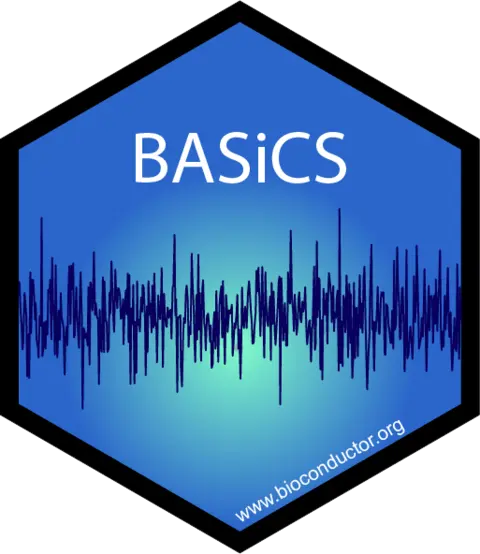
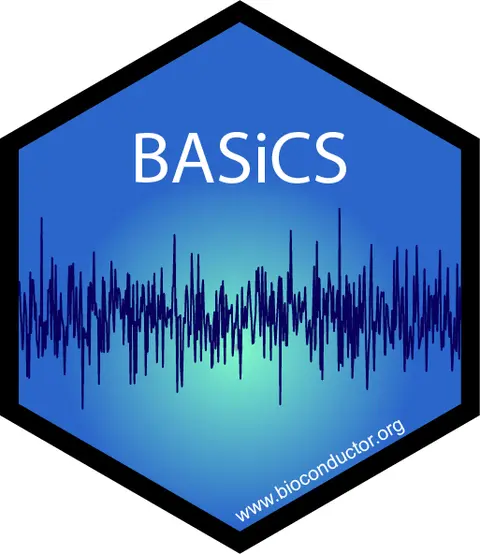
Use optimised images where possible

Changed region(s): [[0.4688, 0.9819, 0.5312, 1.0], [0.7188, 0.7978, 0.75, 0.8285]]

diff --git a/software/index.html b/software/index.html
@@ -4,6 +4,8 @@
   <!-- Head -->
   <head>    <!-- Metadata, OpenGraph and Schema.org -->
     
+    <!-- Website verification -->
+    <meta name="google-site-verification" content="Pzl8S4P089Cj4nMfGPL5Ov-HQIwZyQJmFI9OaJlkQdQ" />
 
     <!-- Standard metadata -->
     <meta charset="utf-8">
@@ -14,6 +16,8 @@
     <meta name="description" content="Research software we have produced" />
     <meta name="keywords" content="jekyll, jekyll-theme, academic-website, portfolio-website" />
 
+
+    <meta name="google-site-verification" content="Pzl8S4P089Cj4nMfGPL5Ov-HQIwZyQJmFI9OaJlkQdQ" />
 
     <!-- Bootstrap & MDB -->
     <link href="https://cdn.jsdelivr.net/npm/bootstrap@4.6.1/dist/css/bootstrap.min.css" rel="stylesheet" integrity="sha256-DF7Zhf293AJxJNTmh5zhoYYIMs2oXitRfBjY+9L//AY=" crossorigin="anonymous">
@@ -54,7 +58,7 @@
       <!-- Nav Bar -->
       <nav id="navbar" class=" navbar font-sans font-weight-lighter bg-opacity-30 bg-slate-900 backdrop-filter border-b-2 border-gray-400 border-transparent backdrop-blur-sm navbar-expand-sm fixed-top">
         <div class="container">
-          <a class="navbar-brand title font-weight-lighter" href="https://vallejosgroup.github.io/"><img src="/assets/img/logo-800.webp" height="56" width="100"></a>
+          <a class="navbar-brand title font-weight-lighter" href="https://vallejosgroup.github.io/"><img src="/assets/img/logo-480.webp" height="56" width="100"></a>
           <!-- Navbar Toggle -->
           <button class="navbar-toggler collapsed ml-auto" type="button" data-toggle="collapse" data-target="#navbarNav" aria-controls="navbarNav" aria-expanded="false" aria-label="Toggle navigation">
             <span class="sr-only">Toggle navigation</span>
@@ -123,12 +127,12 @@
           
   <h2 class="category">GitHub</h2>
   <!-- Generate cards for each project -->
-  <figure class="md:flex bg-slate-100 rounded-xl p-8 md:p-0 dark:bg-slate-800 my-8 drop-shadow-2xl" style="background-color: var(--global-member-bg);"><a class="w-20 h-25 md:w-60 md:h-auto  mx-auto self-center" href="https://github.com/andreaskapou/scMET" target="_blank" rel="noopener noreferrer"> <img class="w-20 h-20 md:w-60 md:h-auto rounded-xl  mx-auto" src="../assets/img/scmet.png" alt="" width="512" height="512"> </a><div class="pt-6 md:p-8 flex-wrap text-center md:text-left space-y-4">
+  <figure class="md:flex bg-slate-100 rounded-xl p-8 md:p-0 dark:bg-slate-800 my-8 drop-shadow-2xl" style="background-color: var(--global-member-bg);"><a class="w-20 h-25 md:w-60 md:h-auto  mx-auto self-center" href="https://github.com/andreaskapou/scMET" target="_blank" rel="noopener noreferrer"> <img class="w-20 h-20 md:w-60 md:h-auto rounded-xl  mx-auto" src="../assets/img/scmet-800.webp" alt="" width="512" height="512"> </a><div class="pt-6 md:p-8 flex-wrap text-center md:text-left space-y-4">
     <h2 class="text-2xl grow font-bold"> scMET </h2> 
     <p class=" font-light"> A Bayesian framework for the analysis of single cell DNA methylation data. This modelling approach combines a hierarchical beta-binomial specification with a generalised linear model framework with the aim of capturing biological overdispersion and overcome data sparsity by sharing information across cells and genomic features. </p>
   </div>
 </figure>
-          <figure class="md:flex bg-slate-100 rounded-xl p-8 md:p-0 dark:bg-slate-800 my-8 drop-shadow-2xl" style="background-color: var(--global-member-bg);"><a class="w-20 h-25 md:w-60 md:h-auto  mx-auto self-center" href="https://github.com/nathansam/bassline" target="_blank" rel="noopener noreferrer"> <img class="w-20 h-20 md:w-60 md:h-auto rounded-xl  mx-auto" src="../assets/img/bassline.png" alt="" width="512" height="512"> </a><div class="pt-6 md:p-8 flex-wrap text-center md:text-left space-y-4">
+          <figure class="md:flex bg-slate-100 rounded-xl p-8 md:p-0 dark:bg-slate-800 my-8 drop-shadow-2xl" style="background-color: var(--global-member-bg);"><a class="w-20 h-25 md:w-60 md:h-auto  mx-auto self-center" href="https://github.com/nathansam/bassline" target="_blank" rel="noopener noreferrer"> <img class="w-20 h-20 md:w-60 md:h-auto rounded-xl  mx-auto" src="../assets/img/bassline-800.webp" alt="" width="512" height="512"> </a><div class="pt-6 md:p-8 flex-wrap text-center md:text-left space-y-4">
     <h2 class="text-2xl grow font-bold"> BASSLINE </h2> 
     <p class=" font-light"> Mixtures of life distributions provide a convenient framework for survival analysis: particularly when standard models such as the Weibull or the log-normal are unable to capture some features from the data. These mixtures can also account for unobserved heterogeneity or outlying observations. BASSLINE (BAyeSian Survival anaLysIs usiNg shapE mixtures of log-normal distributions) uses shape mixtures of log-normal distributions to fit data with fat tails and has been adapted from code written by Vallejos &amp; Steel. Some of the functions have been rewritten in C++ for increased performance. </p>
   </div>

diff --git a/publications/index.html b/publications/index.html
@@ -4,6 +4,8 @@
   <!-- Head -->
   <head>    <!-- Metadata, OpenGraph and Schema.org -->
     
+    <!-- Website verification -->
+    <meta name="google-site-verification" content="Pzl8S4P089Cj4nMfGPL5Ov-HQIwZyQJmFI9OaJlkQdQ" />
 
     <!-- Standard metadata -->
     <meta charset="utf-8">
@@ -15,6 +17,8 @@
 " />
     <meta name="keywords" content="jekyll, jekyll-theme, academic-website, portfolio-website" />
 
+
+    <meta name="google-site-verification" content="Pzl8S4P089Cj4nMfGPL5Ov-HQIwZyQJmFI9OaJlkQdQ" />
 
     <!-- Bootstrap & MDB -->
     <link href="https://cdn.jsdelivr.net/npm/bootstrap@4.6.1/dist/css/bootstrap.min.css" rel="stylesheet" integrity="sha256-DF7Zhf293AJxJNTmh5zhoYYIMs2oXitRfBjY+9L//AY=" crossorigin="anonymous">
@@ -55,7 +59,7 @@
       <!-- Nav Bar -->
       <nav id="navbar" class=" navbar font-sans font-weight-lighter bg-opacity-30 bg-slate-900 backdrop-filter border-b-2 border-gray-400 border-transparent backdrop-blur-sm navbar-expand-sm fixed-top">
         <div class="container">
-          <a class="navbar-brand title font-weight-lighter" href="https://vallejosgroup.github.io/"><img src="/assets/img/logo-800.webp" height="56" width="100"></a>
+          <a class="navbar-brand title font-weight-lighter" href="https://vallejosgroup.github.io/"><img src="/assets/img/logo-480.webp" height="56" width="100"></a>
           <!-- Navbar Toggle -->
           <button class="navbar-toggler collapsed ml-auto" type="button" data-toggle="collapse" data-target="#navbarNav" aria-controls="navbarNav" aria-expanded="false" aria-label="Toggle navigation">
             <span class="sr-only">Toggle navigation</span>
@@ -670,7 +674,8 @@ The British Heart Foundation.</p>
           <div class="title">Normalizing single-cell RNA sequencing data: challenges and opportunities</div>
           <!-- Author -->
           <div class="author">
-                  <em>Vallejos, Catalina A</em>, Risso, Davide, Scialdone, Antonio, Dudoit, Sandrine, and Marioni, John C
+                  <em>Vallejos, Catalina A</em>, Risso, Davide, Scialdone, Antonio, Dudoit, Sandrine, and <a href="https://www.ebi.ac.uk/research-beta/marioni/" target="_blank" rel="noopener noreferrer">Marioni, John C</a>
+                  
           </div>
 
           <!-- Journal/Book title and date -->

diff --git a/projects/1_project/index.html b/projects/1_project/index.html
@@ -4,6 +4,8 @@
   <!-- Head -->
   <head>    <!-- Metadata, OpenGraph and Schema.org -->
     
+    <!-- Website verification -->
+    <meta name="google-site-verification" content="Pzl8S4P089Cj4nMfGPL5Ov-HQIwZyQJmFI9OaJlkQdQ" />
 
     <!-- Standard metadata -->
     <meta charset="utf-8">
@@ -14,6 +16,8 @@
     <meta name="description" content="BASiCS (Bayesian Analysis of Single-Cell Sequencing data) is an integrated Bayesian hierarchical model to perform statistical analyses of single-cell RNA sequencing datasets in the context of supervised experiments (where the groups of cells of interest are known a priori, e.g. experimental conditions or cell types). BASiCS performs built-in data normalisation (global scaling) and technical noise quantification. BASiCS also provides probabilistic frameworks for (i) highly (or lowly) variable genes within a single group of cells and (ii) differential expression analyses (mean and variability) between groups of cells." />
     <meta name="keywords" content="jekyll, jekyll-theme, academic-website, portfolio-website" />
 
+
+    <meta name="google-site-verification" content="Pzl8S4P089Cj4nMfGPL5Ov-HQIwZyQJmFI9OaJlkQdQ" />
 
     <!-- Bootstrap & MDB -->
     <link href="https://cdn.jsdelivr.net/npm/bootstrap@4.6.1/dist/css/bootstrap.min.css" rel="stylesheet" integrity="sha256-DF7Zhf293AJxJNTmh5zhoYYIMs2oXitRfBjY+9L//AY=" crossorigin="anonymous">
@@ -54,7 +58,7 @@
       <!-- Nav Bar -->
       <nav id="navbar" class=" navbar font-sans font-weight-lighter bg-opacity-30 bg-slate-900 backdrop-filter border-b-2 border-gray-400 border-transparent backdrop-blur-sm navbar-expand-sm fixed-top">
         <div class="container">
-          <a class="navbar-brand title font-weight-lighter" href="https://vallejosgroup.github.io/"><img src="/assets/img/logo-800.webp" height="56" width="100"></a>
+          <a class="navbar-brand title font-weight-lighter" href="https://vallejosgroup.github.io/"><img src="/assets/img/logo-480.webp" height="56" width="100"></a>
           <!-- Navbar Toggle -->
           <button class="navbar-toggler collapsed ml-auto" type="button" data-toggle="collapse" data-target="#navbarNav" aria-controls="navbarNav" aria-expanded="false" aria-label="Toggle navigation">
             <span class="sr-only">Toggle navigation</span>

diff --git a/projects/2_project/index.html b/projects/2_project/index.html
@@ -4,6 +4,8 @@
   <!-- Head -->
   <head>    <!-- Metadata, OpenGraph and Schema.org -->
     
+    <!-- Website verification -->
+    <meta name="google-site-verification" content="Pzl8S4P089Cj4nMfGPL5Ov-HQIwZyQJmFI9OaJlkQdQ" />
 
     <!-- Standard metadata -->
     <meta charset="utf-8">
@@ -14,6 +16,8 @@
     <meta name="description" content="Mixtures of life distributions provide a convenient framework for survival analysis: particularly when standard models such as the Weibull or the log-normal are unable to capture some features from the data. These mixtures can also account for unobserved heterogeneity or outlying observations. BASSLINE (BAyeSian Survival anaLysIs usiNg shapE mixtures of log-normal distributions) uses shape mixtures of log-normal distributions to fit data with fat tails and has been adapted from code written by Vallejos & Steel. Some of the functions have been rewritten in C++ for increased performance." />
     <meta name="keywords" content="jekyll, jekyll-theme, academic-website, portfolio-website" />
 
+
+    <meta name="google-site-verification" content="Pzl8S4P089Cj4nMfGPL5Ov-HQIwZyQJmFI9OaJlkQdQ" />
 
     <!-- Bootstrap & MDB -->
     <link href="https://cdn.jsdelivr.net/npm/bootstrap@4.6.1/dist/css/bootstrap.min.css" rel="stylesheet" integrity="sha256-DF7Zhf293AJxJNTmh5zhoYYIMs2oXitRfBjY+9L//AY=" crossorigin="anonymous">
@@ -54,7 +58,7 @@
       <!-- Nav Bar -->
       <nav id="navbar" class=" navbar font-sans font-weight-lighter bg-opacity-30 bg-slate-900 backdrop-filter border-b-2 border-gray-400 border-transparent backdrop-blur-sm navbar-expand-sm fixed-top">
         <div class="container">
-          <a class="navbar-brand title font-weight-lighter" href="https://vallejosgroup.github.io/"><img src="/assets/img/logo-800.webp" height="56" width="100"></a>
+          <a class="navbar-brand title font-weight-lighter" href="https://vallejosgroup.github.io/"><img src="/assets/img/logo-480.webp" height="56" width="100"></a>
           <!-- Navbar Toggle -->
           <button class="navbar-toggler collapsed ml-auto" type="button" data-toggle="collapse" data-target="#navbarNav" aria-controls="navbarNav" aria-expanded="false" aria-label="Toggle navigation">
             <span class="sr-only">Toggle navigation</span>

diff --git a/projects/3_project/index.html b/projects/3_project/index.html
@@ -4,6 +4,8 @@
   <!-- Head -->
   <head>    <!-- Metadata, OpenGraph and Schema.org -->
     
+    <!-- Website verification -->
+    <meta name="google-site-verification" content="Pzl8S4P089Cj4nMfGPL5Ov-HQIwZyQJmFI9OaJlkQdQ" />
 
     <!-- Standard metadata -->
     <meta charset="utf-8">
@@ -14,6 +16,8 @@
     <meta name="description" content="A Bayesian framework for the analysis of single cell DNA methylation data. This modelling approach combines a hierarchical beta-binomial specification with a generalised linear model framework with the aim of capturing biological overdispersion and overcome data sparsity by sharing information across cells and genomic features." />
     <meta name="keywords" content="jekyll, jekyll-theme, academic-website, portfolio-website" />
 
+
+    <meta name="google-site-verification" content="Pzl8S4P089Cj4nMfGPL5Ov-HQIwZyQJmFI9OaJlkQdQ" />
 
     <!-- Bootstrap & MDB -->
     <link href="https://cdn.jsdelivr.net/npm/bootstrap@4.6.1/dist/css/bootstrap.min.css" rel="stylesheet" integrity="sha256-DF7Zhf293AJxJNTmh5zhoYYIMs2oXitRfBjY+9L//AY=" crossorigin="anonymous">
@@ -54,7 +58,7 @@
       <!-- Nav Bar -->
       <nav id="navbar" class=" navbar font-sans font-weight-lighter bg-opacity-30 bg-slate-900 backdrop-filter border-b-2 border-gray-400 border-transparent backdrop-blur-sm navbar-expand-sm fixed-top">
         <div class="container">
-          <a class="navbar-brand title font-weight-lighter" href="https://vallejosgroup.github.io/"><img src="/assets/img/logo-800.webp" height="56" width="100"></a>
+          <a class="navbar-brand title font-weight-lighter" href="https://vallejosgroup.github.io/"><img src="/assets/img/logo-480.webp" height="56" width="100"></a>
           <!-- Navbar Toggle -->
           <button class="navbar-toggler collapsed ml-auto" type="button" data-toggle="collapse" data-target="#navbarNav" aria-controls="navbarNav" aria-expanded="false" aria-label="Toggle navigation">
             <span class="sr-only">Toggle navigation</span>

diff --git a/contact/index.html b/contact/index.html
@@ -4,6 +4,8 @@
   <!-- Head -->
   <head>    <!-- Metadata, OpenGraph and Schema.org -->
     
+    <!-- Website verification -->
+    <meta name="google-site-verification" content="Pzl8S4P089Cj4nMfGPL5Ov-HQIwZyQJmFI9OaJlkQdQ" />
 
     <!-- Standard metadata -->
     <meta charset="utf-8">
@@ -14,6 +16,8 @@
     <meta name="description" content="Do you want to work at the interface between Bayes and exciting biomedical problems? We are often looking for motivated students and postdocs that want to join our group. If you want to discuss potential opportunities, contact us!" />
     <meta name="keywords" content="jekyll, jekyll-theme, academic-website, portfolio-website" />
 
+
+    <meta name="google-site-verification" content="Pzl8S4P089Cj4nMfGPL5Ov-HQIwZyQJmFI9OaJlkQdQ" />
 
     <!-- Bootstrap & MDB -->
     <link href="https://cdn.jsdelivr.net/npm/bootstrap@4.6.1/dist/css/bootstrap.min.css" rel="stylesheet" integrity="sha256-DF7Zhf293AJxJNTmh5zhoYYIMs2oXitRfBjY+9L//AY=" crossorigin="anonymous">
@@ -54,7 +58,7 @@
       <!-- Nav Bar -->
       <nav id="navbar" class=" navbar font-sans font-weight-lighter bg-opacity-30 bg-slate-900 backdrop-filter border-b-2 border-gray-400 border-transparent backdrop-blur-sm navbar-expand-sm fixed-top">
         <div class="container">
-          <a class="navbar-brand title font-weight-lighter" href="https://vallejosgroup.github.io/"><img src="/assets/img/logo-800.webp" height="56" width="100"></a>
+          <a class="navbar-brand title font-weight-lighter" href="https://vallejosgroup.github.io/"><img src="/assets/img/logo-480.webp" height="56" width="100"></a>
           <!-- Navbar Toggle -->
           <button class="navbar-toggler collapsed ml-auto" type="button" data-toggle="collapse" data-target="#navbarNav" aria-controls="navbarNav" aria-expanded="false" aria-label="Toggle navigation">
             <span class="sr-only">Toggle navigation</span>

diff --git a/404.html b/404.html
@@ -4,6 +4,8 @@
   <!-- Head -->
   <head><meta http-equiv="refresh" content="3; url=https://vallejosgroup.github.io/" />    <!-- Metadata, OpenGraph and Schema.org -->
     
+    <!-- Website verification -->
+    <meta name="google-site-verification" content="Pzl8S4P089Cj4nMfGPL5Ov-HQIwZyQJmFI9OaJlkQdQ" />
 
     <!-- Standard metadata -->
     <meta charset="utf-8">
@@ -14,6 +16,8 @@
     <meta name="description" content="Looks like there has been a mistake. Nothing exists here." />
     <meta name="keywords" content="jekyll, jekyll-theme, academic-website, portfolio-website" />
 
+
+    <meta name="google-site-verification" content="Pzl8S4P089Cj4nMfGPL5Ov-HQIwZyQJmFI9OaJlkQdQ" />
 
     <!-- Bootstrap & MDB -->
     <link href="https://cdn.jsdelivr.net/npm/bootstrap@4.6.1/dist/css/bootstrap.min.css" rel="stylesheet" integrity="sha256-DF7Zhf293AJxJNTmh5zhoYYIMs2oXitRfBjY+9L//AY=" crossorigin="anonymous">
@@ -54,7 +58,7 @@
       <!-- Nav Bar -->
       <nav id="navbar" class=" navbar font-sans font-weight-lighter bg-opacity-30 bg-slate-900 backdrop-filter border-b-2 border-gray-400 border-transparent backdrop-blur-sm navbar-expand-sm fixed-top">
         <div class="container">
-          <a class="navbar-brand title font-weight-lighter" href="https://vallejosgroup.github.io/"><img src="/assets/img/logo-800.webp" height="56" width="100"></a>
+          <a class="navbar-brand title font-weight-lighter" href="https://vallejosgroup.github.io/"><img src="/assets/img/logo-480.webp" height="56" width="100"></a>
           <!-- Navbar Toggle -->
           <button class="navbar-toggler collapsed ml-auto" type="button" data-toggle="collapse" data-target="#navbarNav" aria-controls="navbarNav" aria-expanded="false" aria-label="Toggle navigation">
             <span class="sr-only">Toggle navigation</span>

diff --git a/blog/2021/redirect/index.html b/blog/2021/redirect/index.html
@@ -4,6 +4,8 @@
   <!-- Head -->
   <head><meta http-equiv="refresh" content="3; url=https://vallejosgroup.github.io/" />    <!-- Metadata, OpenGraph and Schema.org -->
     
+    <!-- Website verification -->
+    <meta name="google-site-verification" content="Pzl8S4P089Cj4nMfGPL5Ov-HQIwZyQJmFI9OaJlkQdQ" />
 
     <!-- Standard metadata -->
     <meta charset="utf-8">
@@ -14,6 +16,8 @@
     <meta name="description" content="you can also redirect to assets like pdf" />
     <meta name="keywords" content="jekyll, jekyll-theme, academic-website, portfolio-website" />
 
+
+    <meta name="google-site-verification" content="Pzl8S4P089Cj4nMfGPL5Ov-HQIwZyQJmFI9OaJlkQdQ" />
 
     <!-- Bootstrap & MDB -->
     <link href="https://cdn.jsdelivr.net/npm/bootstrap@4.6.1/dist/css/bootstrap.min.css" rel="stylesheet" integrity="sha256-DF7Zhf293AJxJNTmh5zhoYYIMs2oXitRfBjY+9L//AY=" crossorigin="anonymous">
@@ -54,7 +58,7 @@
       <!-- Nav Bar -->
       <nav id="navbar" class=" navbar font-sans font-weight-lighter bg-opacity-30 bg-slate-900 backdrop-filter border-b-2 border-gray-400 border-transparent backdrop-blur-sm navbar-expand-sm fixed-top">
         <div class="container">
-          <a class="navbar-brand title font-weight-lighter" href="https://vallejosgroup.github.io/"><img src="/assets/img/logo-800.webp" height="56" width="100"></a>
+          <a class="navbar-brand title font-weight-lighter" href="https://vallejosgroup.github.io/"><img src="/assets/img/logo-480.webp" height="56" width="100"></a>
           <!-- Navbar Toggle -->
           <button class="navbar-toggler collapsed ml-auto" type="button" data-toggle="collapse" data-target="#navbarNav" aria-controls="navbarNav" aria-expanded="false" aria-label="Toggle navigation">
             <span class="sr-only">Toggle navigation</span>

diff --git a/blog/2021/distill/index.html b/blog/2021/distill/index.html
@@ -3,6 +3,8 @@
 <html>
   <head>    <!-- Metadata, OpenGraph and Schema.org -->
     
+    <!-- Website verification -->
+    <meta name="google-site-verification" content="Pzl8S4P089Cj4nMfGPL5Ov-HQIwZyQJmFI9OaJlkQdQ" />
 
     <!-- Standard metadata -->
     <meta charset="utf-8">
@@ -13,6 +15,8 @@
     <meta name="description" content="an example of a distill-style blog post and main elements" />
     <meta name="keywords" content="jekyll, jekyll-theme, academic-website, portfolio-website" />
 
+
+    <meta name="google-site-verification" content="Pzl8S4P089Cj4nMfGPL5Ov-HQIwZyQJmFI9OaJlkQdQ" />
 
     <!-- Bootstrap & MDB -->
     <link href="https://cdn.jsdelivr.net/npm/bootstrap@4.6.1/dist/css/bootstrap.min.css" rel="stylesheet" integrity="sha256-DF7Zhf293AJxJNTmh5zhoYYIMs2oXitRfBjY+9L//AY=" crossorigin="anonymous">
@@ -138,7 +142,7 @@
       <!-- Nav Bar -->
       <nav id="navbar" class=" navbar font-sans font-weight-lighter bg-opacity-30 bg-slate-900 backdrop-filter border-b-2 border-gray-400 border-transparent backdrop-blur-sm navbar-expand-sm fixed-top">
         <div class="container">
-          <a class="navbar-brand title font-weight-lighter" href="https://vallejosgroup.github.io/"><img src="/assets/img/logo-800.webp" height="56" width="100"></a>
+          <a class="navbar-brand title font-weight-lighter" href="https://vallejosgroup.github.io/"><img src="/assets/img/logo-480.webp" height="56" width="100"></a>
           <!-- Navbar Toggle -->
           <button class="navbar-toggler collapsed ml-auto" type="button" data-toggle="collapse" data-target="#navbarNav" aria-controls="navbarNav" aria-expanded="false" aria-label="Toggle navigation">
             <span class="sr-only">Toggle navigation</span>

diff --git a/blog/2020/github-metadata/index.html b/blog/2020/github-metadata/index.html
@@ -4,6 +4,8 @@
   <!-- Head -->
   <head>    <!-- Metadata, OpenGraph and Schema.org -->
     
+    <!-- Website verification -->
+    <meta name="google-site-verification" content="Pzl8S4P089Cj4nMfGPL5Ov-HQIwZyQJmFI9OaJlkQdQ" />
 
     <!-- Standard metadata -->
     <meta charset="utf-8">
@@ -14,6 +16,8 @@
     <meta name="description" content="a quick run down on accessing github metadata." />
     <meta name="keywords" content="jekyll, jekyll-theme, academic-website, portfolio-website" />
 
+
+    <meta name="google-site-verification" content="Pzl8S4P089Cj4nMfGPL5Ov-HQIwZyQJmFI9OaJlkQdQ" />
 
     <!-- Bootstrap & MDB -->
     <link href="https://cdn.jsdelivr.net/npm/bootstrap@4.6.1/dist/css/bootstrap.min.css" rel="stylesheet" integrity="sha256-DF7Zhf293AJxJNTmh5zhoYYIMs2oXitRfBjY+9L//AY=" crossorigin="anonymous">
@@ -54,7 +58,7 @@
       <!-- Nav Bar -->
       <nav id="navbar" class=" navbar font-sans font-weight-lighter bg-opacity-30 bg-slate-900 backdrop-filter border-b-2 border-gray-400 border-transparent backdrop-blur-sm navbar-expand-sm fixed-top">
         <div class="container">
-          <a class="navbar-brand title font-weight-lighter" href="https://vallejosgroup.github.io/"><img src="/assets/img/logo-800.webp" height="56" width="100"></a>
+          <a class="navbar-brand title font-weight-lighter" href="https://vallejosgroup.github.io/"><img src="/assets/img/logo-480.webp" height="56" width="100"></a>
           <!-- Navbar Toggle -->
           <button class="navbar-toggler collapsed ml-auto" type="button" data-toggle="collapse" data-target="#navbarNav" aria-controls="navbarNav" aria-expanded="false" aria-label="Toggle navigation">
             <span class="sr-only">Toggle navigation</span>

diff --git a/blog/2015/images/index.html b/blog/2015/images/index.html
@@ -4,6 +4,8 @@
   <!-- Head -->
   <head>    <!-- Metadata, OpenGraph and Schema.org -->
     
+    <!-- Website verification -->
+    <meta name="google-site-verification" content="Pzl8S4P089Cj4nMfGPL5Ov-HQIwZyQJmFI9OaJlkQdQ" />
 
     <!-- Standard metadata -->
     <meta charset="utf-8">
@@ -14,6 +16,8 @@
     <meta name="description" content="this is what included images could look like" />
     <meta name="keywords" content="jekyll, jekyll-theme, academic-website, portfolio-website" />
 
+
+    <meta name="google-site-verification" content="Pzl8S4P089Cj4nMfGPL5Ov-HQIwZyQJmFI9OaJlkQdQ" />
 
     <!-- Bootstrap & MDB -->
     <link href="https://cdn.jsdelivr.net/npm/bootstrap@4.6.1/dist/css/bootstrap.min.css" rel="stylesheet" integrity="sha256-DF7Zhf293AJxJNTmh5zhoYYIMs2oXitRfBjY+9L//AY=" crossorigin="anonymous">
@@ -54,7 +58,7 @@
       <!-- Nav Bar -->
       <nav id="navbar" class=" navbar font-sans font-weight-lighter bg-opacity-30 bg-slate-900 backdrop-filter border-b-2 border-gray-400 border-transparent backdrop-blur-sm navbar-expand-sm fixed-top">
         <div class="container">
-          <a class="navbar-brand title font-weight-lighter" href="https://vallejosgroup.github.io/"><img src="/assets/img/logo-800.webp" height="56" width="100"></a>
+          <a class="navbar-brand title font-weight-lighter" href="https://vallejosgroup.github.io/"><img src="/assets/img/logo-480.webp" height="56" width="100"></a>
           <!-- Navbar Toggle -->
           <button class="navbar-toggler collapsed ml-auto" type="button" data-toggle="collapse" data-target="#navbarNav" aria-controls="navbarNav" aria-expanded="false" aria-label="Toggle navigation">
             <span class="sr-only">Toggle navigation</span>

diff --git a/blog/2015/code/index.html b/blog/2015/code/index.html
@@ -4,6 +4,8 @@
   <!-- Head -->
   <head>    <!-- Metadata, OpenGraph and Schema.org -->
     
+    <!-- Website verification -->
+    <meta name="google-site-verification" content="Pzl8S4P089Cj4nMfGPL5Ov-HQIwZyQJmFI9OaJlkQdQ" />
 
     <!-- Standard metadata -->
     <meta charset="utf-8">
@@ -14,6 +16,8 @@
     <meta name="description" content="an example of a blog post with some code" />
     <meta name="keywords" content="jekyll, jekyll-theme, academic-website, portfolio-website" />
 
+
+    <meta name="google-site-verification" content="Pzl8S4P089Cj4nMfGPL5Ov-HQIwZyQJmFI9OaJlkQdQ" />
 
     <!-- Bootstrap & MDB -->
     <link href="https://cdn.jsdelivr.net/npm/bootstrap@4.6.1/dist/css/bootstrap.min.css" rel="stylesheet" integrity="sha256-DF7Zhf293AJxJNTmh5zhoYYIMs2oXitRfBjY+9L//AY=" crossorigin="anonymous">
@@ -54,7 +58,7 @@
       <!-- Nav Bar -->
       <nav id="navbar" class=" navbar font-sans font-weight-lighter bg-opacity-30 bg-slate-900 backdrop-filter border-b-2 border-gray-400 border-transparent backdrop-blur-sm navbar-expand-sm fixed-top">
         <div class="container">
-          <a class="navbar-brand title font-weight-lighter" href="https://vallejosgroup.github.io/"><img src="/assets/img/logo-800.webp" height="56" width="100"></a>
+          <a class="navbar-brand title font-weight-lighter" href="https://vallejosgroup.github.io/"><img src="/assets/img/logo-480.webp" height="56" width="100"></a>
           <!-- Navbar Toggle -->
           <button class="navbar-toggler collapsed ml-auto" type="button" data-toggle="collapse" data-target="#navbarNav" aria-controls="navbarNav" aria-expanded="false" aria-label="Toggle navigation">
             <span class="sr-only">Toggle navigation</span>
